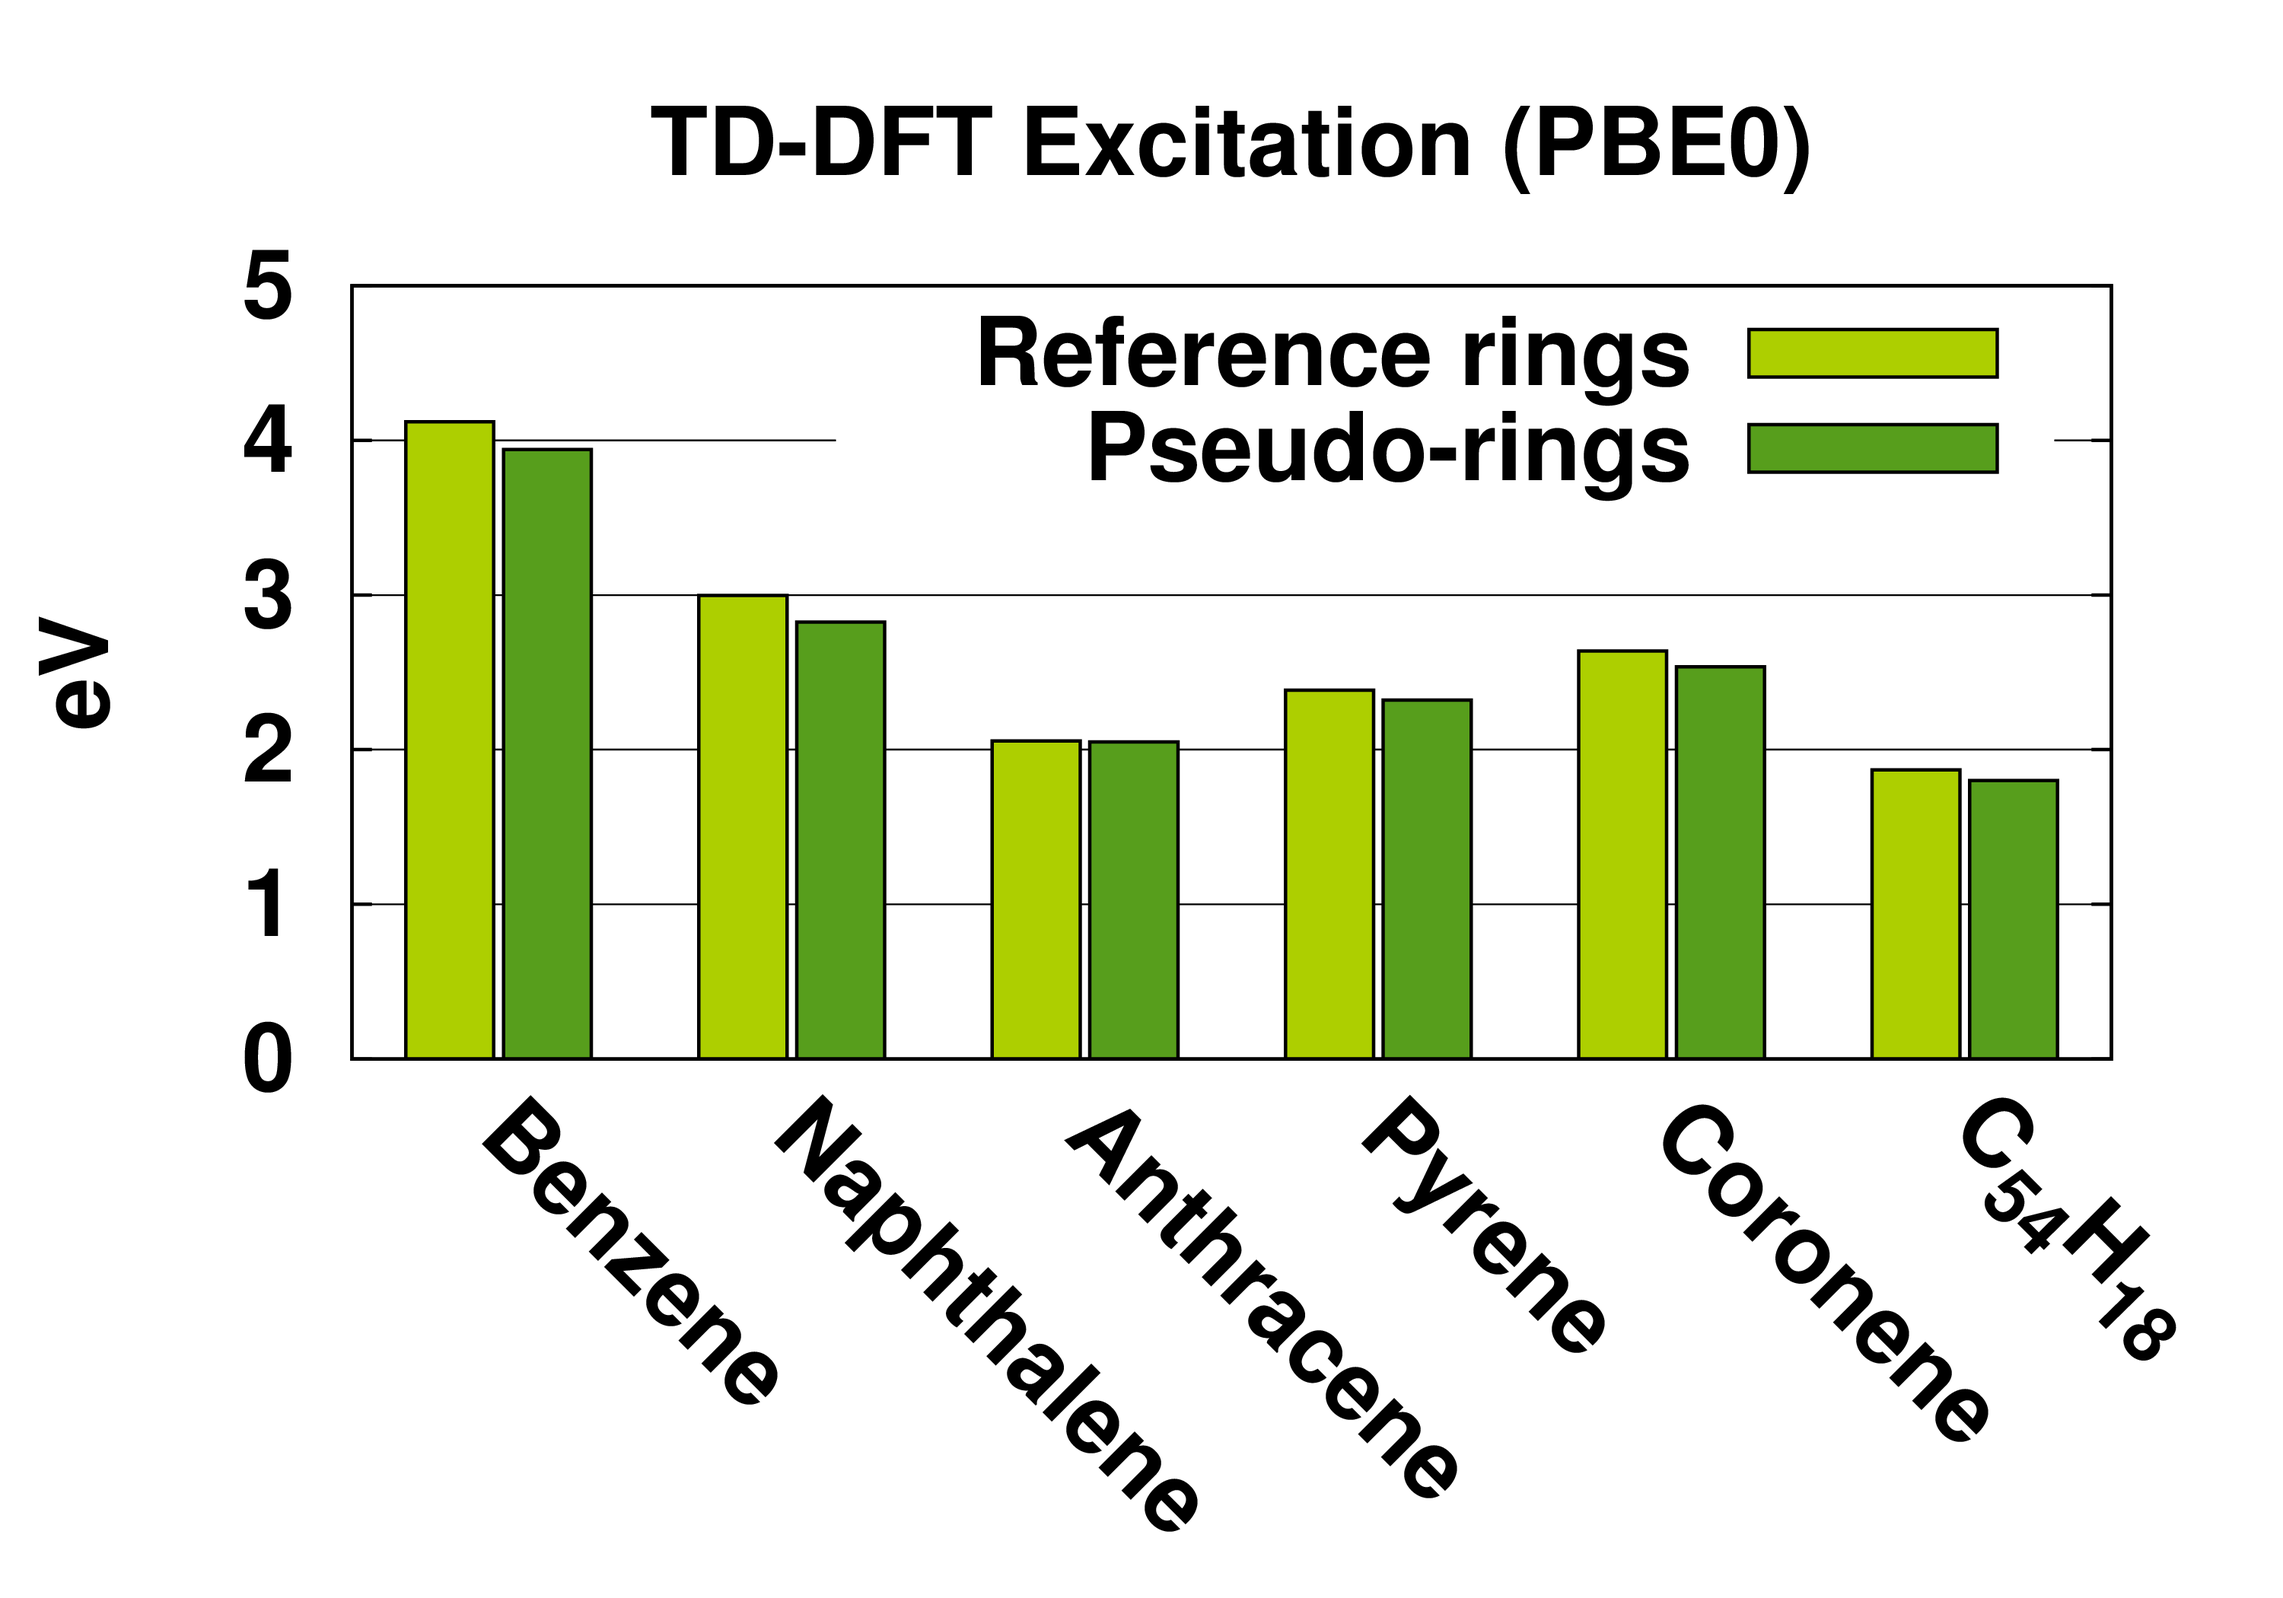
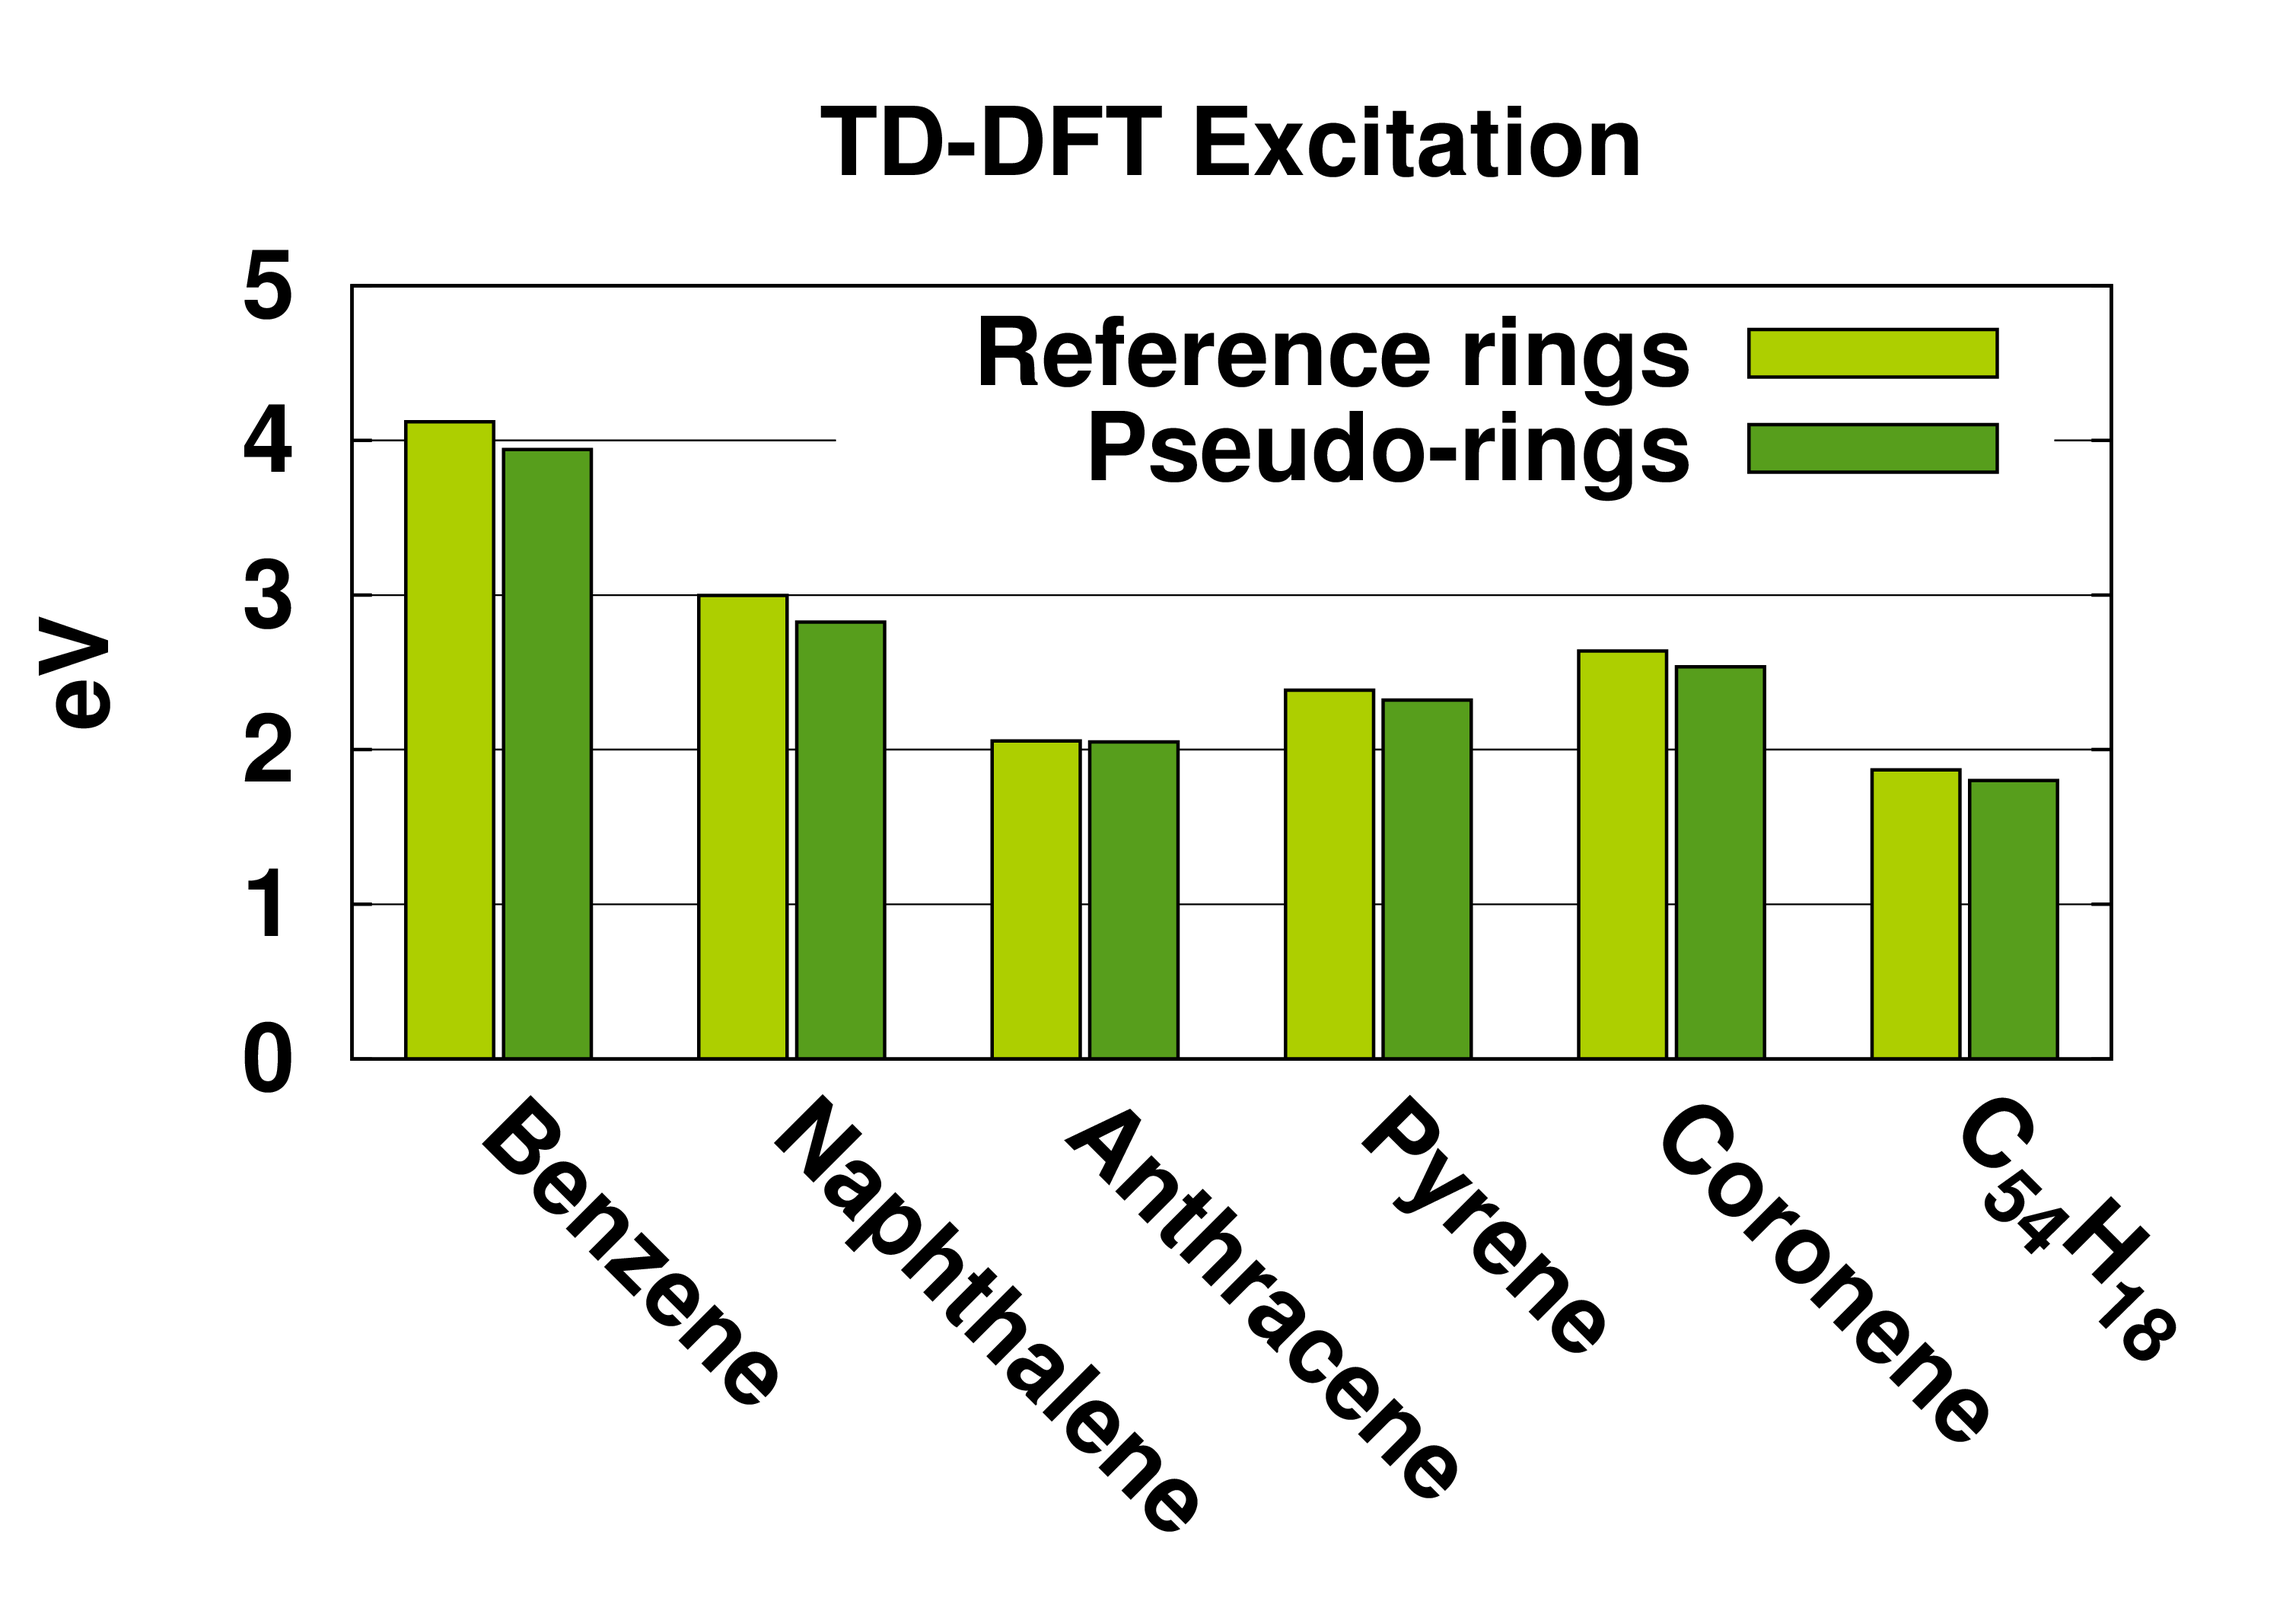
correction in the figures: addition of TDDFT everywhere, long caption and creation of a separate figure for the large ring. Plus move the 2013 graph in the supplementaries

Changed region(s): [[0.279, 0.0619, 0.806, 0.1238]]

diff --git a/main.tex b/main.tex
@@ -460,7 +460,7 @@ All Hartree-Fock, DFT and time-dependent DFT (TD-DFT) energy calculations are pe
 
 Taking these optimal parameters we test them against a series of chain alkenes up to length C\(_{12}\)H\(_{14}\), using a variety of functionals. In each case, the geometry of the reference system is optimised according to the method used, 
 before taking the reference geometry and applying the pseudo-potentials from Table \ref{tab:res_ourPP}. 
-Figures \ref{fig:alkenes_hf_dft} and \ref{fig:alkenes_tddft} show the results.
+Figure \ref{fig:alkenes_hf_dft} shows the results.
 Table \ref{table:alkene_errors} gives a breakdown of the percentage errors for each method across all molecules tested. The pattern of increasing HOMO energy and decreasing cation-singlet and triplet-singlet energies seen in the reference systems is well replicated by the pseudo-alkenes, with the energies following the same gradient.
 
 \begin{figure}
@@ -468,28 +468,19 @@ Table \ref{table:alkene_errors} gives a breakdown of the percentage errors for e
 \includegraphics[width=8cm]{short_pbe0_homo}
 \includegraphics[width=8cm]{short_pbe0_ie}
 \includegraphics[width=8cm]{short_pbe0_st}
+\includegraphics[width=8cm]{short_pbe0_tddft}
 \end{center}
-\caption{Comparison of the HOMO energy ($\varepsilon_{HOMO}$), the ionisation energy (I.E.) and
-the first singlet-triplet excitation energy ($\Delta_{ST}$) between the
+\caption{Comparison of the HOMO energy ($\varepsilon_{HOMO}$),
+the ionisation energy (I.E.),
+the first singlet-triplet excitation energy ($\Delta_{ST}$) and
+the TD-DFT first excitation energy
+between the
 all electron reference system and the optimal pseudo-potential across a range of chain alkenes.
 The $\Delta_{ST}$ values were obtained as the difference
 between the lowest triplet (in an unrestricted formalism) and the lowest singlet state
 (in a restricted formalism).
 Calculations were done with the PBE0 functional.}
 \label{fig:alkenes_hf_dft}
-\end{figure}
-
-\begin{figure}
-\begin{center}
-\includegraphics[width=8cm]{short_pbe0_tddft_2013}
-\includegraphics[width=8cm]{short_pbe0_tddft}
-%\caption{Comparison of pseudo-alkenes with previous\cite{drujon_pseudopotentials_2013} and current potentials using TD-DFT excitation energies.}
-%\label{fig:alkenes_tddft}
-\end{center}
-%\hspace*{3in}
-
-\caption{Comparison of pseudo-alkenes with previous\cite{drujon_pseudopotentials_2013} and current potentials using TD-DFT excitation energies.}
-\label{fig:alkenes_tddft}
 \end{figure}
 
 \begin{table}[ht]
@@ -518,16 +509,27 @@ Let us recall here that in our previous work potentials were placed at the cente
 \includegraphics[width=8cm]{ring_pbe0_ie}
 \includegraphics[width=8cm]{ring_pbe0_homo}
 \includegraphics[width=8cm]{ring_pbe0_tddft}
-%\includegraphics[width=5cm]{19_ring_diagram}
-\fbox{\includegraphics[width=5cm]{c54h18}}
-%\caption{DFT and TD-DFT (PBE0) comparison of reference and pseudo-system energies across a range of ring molecules. 
-%C\(_{54}\)H\(_{18}\) is shown in the bottom.}
-%\label{fig:rings_graphs}
 \end{center}
 
-\caption{DFT and TD-DFT (PBE0) comparison of reference and pseudo-system energies across a range of ring molecules. 
-C\(_{54}\)H\(_{18}\) is shown in the bottom.}
+\caption{Comparison of the HOMO energy ($\varepsilon_{HOMO}$),
+the ionisation energy (I.E.),
+the first singlet-triplet excitation energy ($\Delta_{ST}$) and
+the TD-DFT first excitation energy
+between the
+all electron reference system and the optimal pseudo-potential across a range of ring molecules.
+The $\Delta_{ST}$ values were obtained as the difference
+between the lowest triplet (in an unrestricted formalism) and the lowest singlet state
+(in a restricted formalism).
+Calculations were done with the PBE0 functional.
+The C\(_{54}\)H\(_{18}\) molecule is represented in figure \ref{fig:c54h18}}
 \label{fig:rings_graphs}
+\end{figure}
+
+\begin{figure}
+\begin{center}
+\fbox{\includegraphics[width=5cm]{c54h18}}
+\end{center}
+\caption{\label{fig:c54h18}The C\(_{54}\)H\(_{18}\) molecule.}
 \end{figure}
 
 The potentials derived above are also tested on larger systems.
@@ -565,7 +567,17 @@ alkene chains (\(n\) up to 100).
 %\label{fig:long_chain_graphs}
 \end{center}
 
-\caption{DFT and TD-DFT (PBE0) comparison of reference and pseudo-system energies across a range of long chain alkenes (C\(_{20}\)-C\(_{100}\)).}
+\caption{
+\caption{Comparison of the HOMO energy ($\varepsilon_{HOMO}$),
+the ionisation energy (I.E.),
+the first singlet-triplet excitation energy ($\Delta_{ST}$) and
+the TD-DFT first excitation energy
+between the
+all electron reference system and the optimal pseudo-potential across a range of long chain alkenes (C\(_{20}\)-C\(_{100}\)).
+The $\Delta_{ST}$ values were obtained as the difference
+between the lowest triplet (in an unrestricted formalism) and the lowest singlet state
+(in a restricted formalism).
+Calculations were done with the PBE0 functional.}
 \label{fig:long_chain_graphs}
 \end{figure}
 
@@ -700,12 +712,13 @@ in the QM part. The MM part would be taken care of without modification of the s
 
 \clearpage
 \section{Supplementary materials}
-\subsection{CH\(_{3}\), with \(s\)-potentials}
+\subsection{Details on the extraction process}
+\subsubsection{CH\(_{3}\), with \(s\)-potentials}
 
 We aim first at reproducing the values for the CH\(^{\bullet}_{3}\) radical as given in Table \ref{table:ch3_s_potentials}. 
 This reference CH\(^{\bullet}_{3}\) is created and has its geometry optimised under Hartree-Fock (HF). The reference geometry gives a C - H distance of 2.0466 a.u., and so we pick \(d = 2.0\) a.u. as a starting guess for the planar distance from the pseudo-carbon, \(d\), of our pseudo-potentials. The pseudo-system is then set up, erasing the hydrogen atoms, setting the carbon charge \(Z_{nucleus} = 1\) and applying \(s\) pseudo-potentials, as well as selecting the correct orbital for the remaining electron. Table \ref{table:ch3_s_potentials} displays some of our results. Promisingly, we are able to produce many sets of potentials that give the correct energy.
 
-\subsection{Ethene, with \(s\) and \(p\)-potentials}
+\subsubsection{Ethene, with \(s\) and \(p\)-potentials}
 
 Next, we take some of these potentials to create a pseudo-ethene system, with the results shown in Table \ref{table:ethene_s_pseudo}. All potentials tested with \(d = 2.0\) a.u. gave results several orders of magnitude away from the reference value. From Figure \ref{fig:long_r_ethene} we may see the reason. One of the potential sets from each carbon is closer to the neighbouring carbon than the neighbour's own potential sets, thus both pseudo-carbons are affected by potentials which do not belong to them. At the shorter range \(d = 0.5\) a.u., the HOMO energy is of the right magnitude, though with errors of \(~ 30\%\). Attempts to eliminate this error lead us to the additional use of the \(p_{z}\) potential \textit{alongside} the \(s\) potentials.
 
@@ -716,11 +729,21 @@ Having successfully created a pseudo-ethene with the correct HOMO, we attempt to
 the singlet-triplet excitation energy ($\Delta_{ST}$) in the SCF framework (energy difference between the triplet and the singlet mono-reference
 calculations), the ionisation energy (IE) and the energy of the HOMO orbital ($\varepsilon_{HOMO}$). Reference values for the singlet-triplet \(\pi-\pi*\) excitation and first ionisation energies of ethene are given in Table \ref{table:ethene_excitations}. Testing the relevant energies for the optimised pseudo-systems above, we can see from Table \ref{table:ethene_excitations} that the early results are not promising. However, after we abandon the notion of sticking strictly to a \(p_{z}\)-potential exponent that gives the maximum overlap with the real orbital, we discover there is a "sweet spot" of potential coefficients and exponents around which the correct values begin to emerge. Table \ref{table:ethene_excitations} shows our optimal result, chosen to give HOMO, triplet - singlet and ionisation energies closest to the reference values. 
 
-\subsection{Optimisation}
+\subsubsection{Optimisation}
 
 In earlier calculations with only \(s\)-potentials, optimisation was performed by choosing a range of exponent values and attempting to optimise the coefficient at each to produce the HOMO reference energy. Once the \(p_{z}\) potential was added, the \(s\)-potentials were optimised afterward. 
 
 Once we started to look at excitation and ionisation energies however, optimisation became more complicated. Optimisations were at first performed of the s and p-potentials to reach the HOMO energy of ethene as before. With the different potential variables available, we produced a range of optimised potential sets. The best set of these potentials was then chosen and the values altered by hand in order to match as closely as possible three separate reference values: the singlet HOMO energy, the singlet-triplet \(\pi-\pi*\) excitation energy, and the cation-singlet energy. All optimisations used the Brent method in SciPy's optimisation library, with a tolerance of \(1.48*10^{-08}\), and used standard Hartree-Fock calculations.\cite{scipy}
+
+\subsection{Comparison with our previous study}
+\begin{figure}
+\begin{center}
+\includegraphics[width=8cm]{short_pbe0_tddft_2013}
+\includegraphics[width=8cm]{short_pbe0_tddft}
+\end{center}
+\caption{Comparison of pseudo-alkenes with previous\cite{drujon_pseudopotentials_2013} and current potentials using TD-DFT excitation energies.}
+\label{fig:alkenes_tddft}
+\end{figure}
 
 %%%%%%%%%%%%%%%%%%%%%%%%%%%%%%%%%%%%%%%%%%%%%%%%%%%%%%%%%%%%%%%%%%%%%%%%%%%%%%%%%
 % FIGURE CAPTIONS
